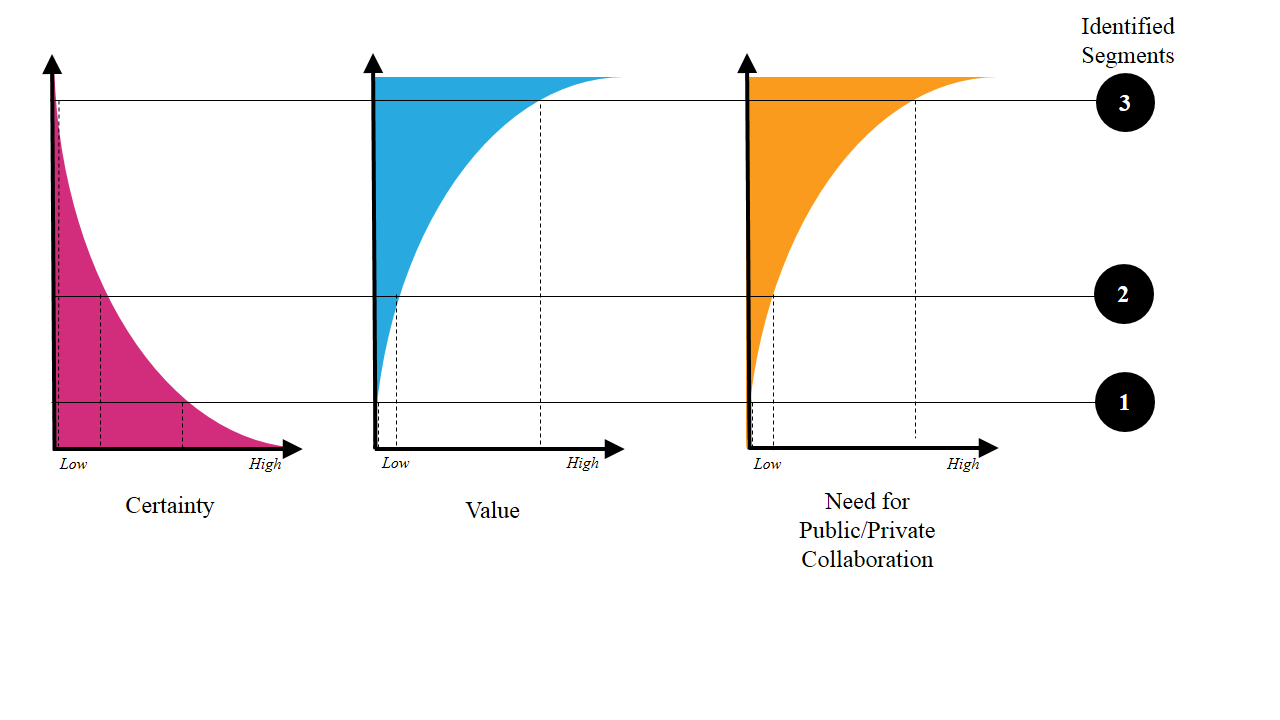
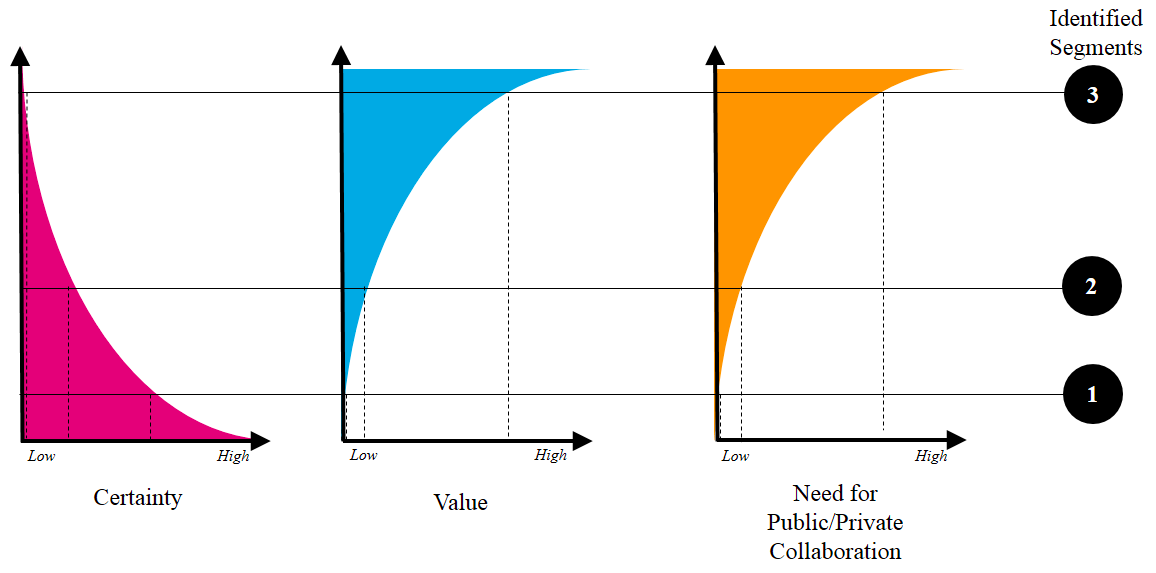
Latest version

diff --git a/ieeetii2016.tex b/ieeetii2016.tex
@@ -23,7 +23,7 @@
 % not capitalized unless they are the first or last word of the title.
 % Linebreaks \\ can be used within to get better formatting as desired.
 % Do not put math or special symbols in the title.
-\title{Digitally-Enabled, As-a-Service, Electric Vehicles: Exploring the `TriOpt' of Private Transport}
+\title{Digitally-Enabled, As-a-Service, Electric Vehicles: Exploring the `Tri-Opt' of Private Transport}
 %
 %
 % author names and IEEE memberships
@@ -67,7 +67,7 @@
 %\markboth{Journal of \LaTeX\ Class Files,~Vol.~14, No.~8, August~2015}%
 \markboth{IEEE Transactions on Industrial Informatics, February~2017}%
 {Shell \MakeLowercase{\textit{Cooper et al.}}: Digitally-enabled,
-  as-a-Service, Electric Vehicles: Exploring the `TriOpt' of Private
+  as-a-Service, Electric Vehicles: Exploring the `Tri-Opt' of Private
   Transport}
 % The only time the second header will appear is for the odd numbered pages
 % after the title page when using the twoside option.
@@ -104,7 +104,7 @@ journey, also addressing systematic impact such as residential parking
 and social division. Thirdly, the rise of `smart city thinking', the
 concept that increased connectivity and data can be harnessed to
 create value, including in transport. We define the combination of the
-three as the `TriOpt' of private transport – three disruptors that
+three as the `Tri-Opt' of private transport – three disruptors that
 should not be considered in isolation but as interacting levers -- an
 inflection of the `Energy Trilemma'.
 
@@ -117,7 +117,7 @@ these. Subsequently, the use cases are evaluated qualitatively for
 their comparative value, and segmentation is undertaken to
 characterise and generalise groups of concepts to inform recommended
 stakeholder actions. We demonstrate that synergistic overlaps are many
-and they create significant value, thus this `TriOpt' notion should be
+and they create significant value, thus this `Tri-Opt' notion should be
 investigated further. Our data highlights that of the greatest value
 are those use cases that the current literature base has explored the
 least, and can be characterised as requiring significant public and
@@ -225,13 +225,15 @@ context of the city of Bristol in the UK.
 \centering
 \includegraphics[width=\columnwidth]{images/triopt.png}
 \caption{The proposed `Tri-Opt' of positive opportunities to disrupt
-  the private sector transport paradigm in developed countries. Areas
-  of double overlap correspond to a perception of the strengths and
-  weaknesses in these combinations, as presented in the literature
-  reviewed; the area of triple overlap is the stated hypothesis for
-  this research.}
+  the private sector transport paradigm in developed countries.}
 \label{fig:triopt}
 \end{figure}
+
+% old caption:
+% Areas of double overlap correspond to a perception of the strengths
+% and weaknesses in these combinations, as presented in the literature
+% reviewed; the area of triple overlap is the stated hypothesis for this
+% research.
 
 
 \subsection{Electric Vehicles}
@@ -347,7 +349,7 @@ be:
 \item {\emph{Faster:}} for example, using traffic data to update
   signs in real time, rather than the slow, reactive methods by which
   traffic is informally advised against taking certain routes.
-\item {\textbf{Fairer:}} for example, demand-based pricing for grid
+\item {\emph{Fairer:}} for example, demand-based pricing for grid
   electricity, whereby data from the national grid is used to charge
   those who use electricity when demand is highest (when the cost of
   generation is highest), a cost that is reflective of the cost to
@@ -567,9 +569,9 @@ This paper sets out to achieve the following objectives:
 \item To understand, to a qualitative and relative degree of accuracy,
   the varying value perceived by our stakeholders to be presented in
   the identified use cases. 
-\item To understand the broad characteristics of the identified use
-  cases, with a focus on barriers and enablers to their valuation and
-  implementation.
+% \item To understand the broad characteristics of the identified use
+%   cases, with a focus on barriers and enablers to their valuation and
+%   implementation.
 \item To segment the use cases, considering a combination of their
   characteristics and value potential, with a view to forming
   recommended policymaker actions.
@@ -580,8 +582,7 @@ This paper sets out to achieve the following objectives:
 \includegraphics[width=\columnwidth]{images/bristolhub.png}
 \caption{An overview of the functionality of Bristol's Smart Electric
   Transport Hub, structured by input transport modes (left) and output
-  transport services (Cooper, Elder, Noble, Tingle, \& Wilde,
-  2015)}
+  transport services}
 \label{fig:bristolhub}
 \end{figure}
 
@@ -613,8 +614,7 @@ exclusively -- focused around a joint Bristol City Council and Bristol
 University research study into the potential of a `smart electric
 vehicle transport hub' -- a development that combined the three
 proposed trends on a physical site offering both public (bus and `park
-and ride') and private (as-a-service electric car hire) services
-(Cooper, Elder, Noble, Tingle, \& Wilde, 2015).
+and ride') and private (as-a-service electric car hire) services.
 
 The methods used are as follows:
 
@@ -637,26 +637,26 @@ introduced.
 
 \section{Results}
 
-\subsection{Overview}
+% \subsection{Overview}
 
-The results are presented in the following format:
+% The results are presented in the following format:
 
-\begin{itemize}
-\item {\emph{Individual Use Cases:}} A profile of each individual
-use cases identified as a result of the methodology, articulated as
-communally defined by stakeholders participating. Each use case is
-labeled with the relevant `Opts' they involve;
-\item {\emph{Use Case Value Comparison:}} A value map of the use
-cases, as described in Section~\ref{methodology};
-\item {\emph{Individual Barrier and Enablers:}} A profile of each of
-the identified barriers and enablers, identified as a result of the
-methodology, articulated as communally defined by stakeholders
-participating. On review of the results, the cross-applicability of
-these makes it logically to present these as a communal set. However
-particularly strong applicability of one barrier/enabler to a
-particular use case will be emphasised in that barrier/enabler's
-description.
-\end{itemize}
+% \begin{itemize}
+% \item {\emph{Individual Use Cases:}} A profile of each individual
+% use cases identified as a result of the methodology, articulated as
+% communally defined by stakeholders participating. Each use case is
+% labeled with the relevant `Opts' they involve;
+% \item {\emph{Use Case Value Comparison:}} A value map of the use
+% cases, as described in Section~\ref{methodology};
+% \item {\emph{Individual Barrier and Enablers:}} A profile of each of
+% the identified barriers and enablers, identified as a result of the
+% methodology, articulated as communally defined by stakeholders
+% participating. On review of the results, the cross-applicability of
+% these makes it logically to present these as a communal set. However
+% particularly strong applicability of one barrier/enabler to a
+% particular use case will be emphasised in that barrier/enabler's
+% description.
+% \end{itemize}
 
 
 \subsection{Individual Uses Cases}
@@ -807,27 +807,30 @@ from this system comes from improved reliability of the car hire
 service. A simulation exploring the potential impact of demand-based
 pricing on revenue and variance of booking density, for a designed
 node of an smart EV MaaS node, can be seen in
-Figures~\ref{fig:smartpricingformula} and \ref{fig:smartpricegraphs}.
+Figure~\ref{fig:smartpricegraphs}.
 
 \begin{figure}[!h]
 \centering
 \includegraphics[width=\columnwidth]{images/smartpricingformula.png}
-\caption{Smart pricing formula}
+%\caption{Smart pricing formula}
 \label{fig:smartpricingformula}
 \end{figure}
 
 \begin{figure*}[!htb]
 \centering
 \includegraphics[width=\textwidth]{images/smartpricegraphs.png}
-\caption{From left to right: Price ranges with different formula
-  values; Varying total revenue under different schemes; Variance in
-  booking density, a measure of the difficult of servicing bookings,
-  with different ‘smart powers’ and average prices. Draws on data
-  regarding price sensitivity, customer flexibility and estimated
-  footfall collected during the Bristol Smart EV Hub project. (Cooper,
-  Elder, Noble, Tingle, \& Wilde, 2015)}
+\caption{Data regarding price sensitivity, customer flexibility and
+estimated footfall collected during the Bristol Smart EV Hub project.}
 \label{fig:smartpricegraphs}
 \end{figure*}
+
+% old caption:
+% From left to right: Price ranges with different formula values;
+% Varying total revenue under different schemes; Variance in booking
+% density, a measure of the difficult of servicing bookings, with
+% different ‘smart powers’ and average prices. Draws on data regarding
+% price sensitivity, customer flexibility and estimated footfall
+% collected during the Bristol Smart EV Hub project.
 
 As can be observed, it is possible to create a scenario where both
 total revenue is increased and bookings are more evenly
@@ -1028,8 +1031,7 @@ periods of lower demand.
 % \centering
 % \includegraphics[width=\columnwidth]{images/criticalresolution.png}
 % \caption{MATLAB modelling of the accuracy of extrapolating to find
-%   congestion from connected EV cars in Bristol, UK (Cooper, Elder,
-%   Noble, Tingle, \& Wilde, 2015)}
+%   congestion from connected EV cars in Bristol, UK}
 % \label{fig:criticalresolution}
 % \end{figure}
 
@@ -1171,7 +1173,7 @@ segments can be seen in Figure~\ref{fig:segmentcharacteristics}.
 % \includegraphics[width=\columnwidth]{images/sankey.png}
 % \caption{Sankey diagram output of a systems dynamics model, exploring
 %   the financial benefit of some of the identified use cases for a node
-%   of the Hub. (Cooper, Elder, Noble, Tingle, \& Wilde, 2015)}
+%   of the Hub.}
 % \label{fig:sankey}
 % \end{figure}
 
@@ -1180,7 +1182,7 @@ segments can be seen in Figure~\ref{fig:segmentcharacteristics}.
 \section{Conclusion}\label{conclusion}
 
 There is clearly synergistic value within the overlaps of the proposed
-`TriOpt', confirming the original hypothesis. However it appears the
+`Tri-Opt', confirming the original hypothesis. However it appears the
 specifics of this are somewhat different to initial speculation. The
 findings suggest concepts that combine MaaS offerings and digital
 innovation are the main focus of value creation which was favoured over
@@ -1265,12 +1267,14 @@ loop diagram in Figure~\ref{fig:causalloop}, need to be investigated.
 \centering
 \includegraphics[width=\columnwidth]{images/causalloop.png}
 \caption{A causal loop diagram articulating the investment/value
-  dilemma of some tri-opt transport solutions; the dotted line and
-  faded blue correspond to the absence of this second reinforcing
-  loop, undermining the system when value is predominantly systematic
-  benefits to the city.}
+  dilemma of some tri-opt transport solutions.}
 \label{fig:causalloop}
 \end{figure}
+
+% from old caption:
+% the dotted line and faded blue correspond to the absence of this
+% second reinforcing loop, undermining the system when value is
+% predominantly systematic benefits to the city.
 
 
 % \appendices
@@ -1284,12 +1288,11 @@ loop diagram in Figure~\ref{fig:causalloop}, need to be investigated.
 
 
 % use section* for acknowledgment
+\section*{Acknowledgment}
 
-% \section*{Acknowledgment}
-
-% This work has been supported in part by Arup Group Ltd. through the
-% Industrial Doctorate Centre in Systems at the University of Bristol,
-% UK.
+This work has been supported in part by Arup Group Ltd. through the
+Industrial Doctorate Centre in Systems at the University of Bristol,
+UK.
 
 
 % Can use something like this to put references on a page
